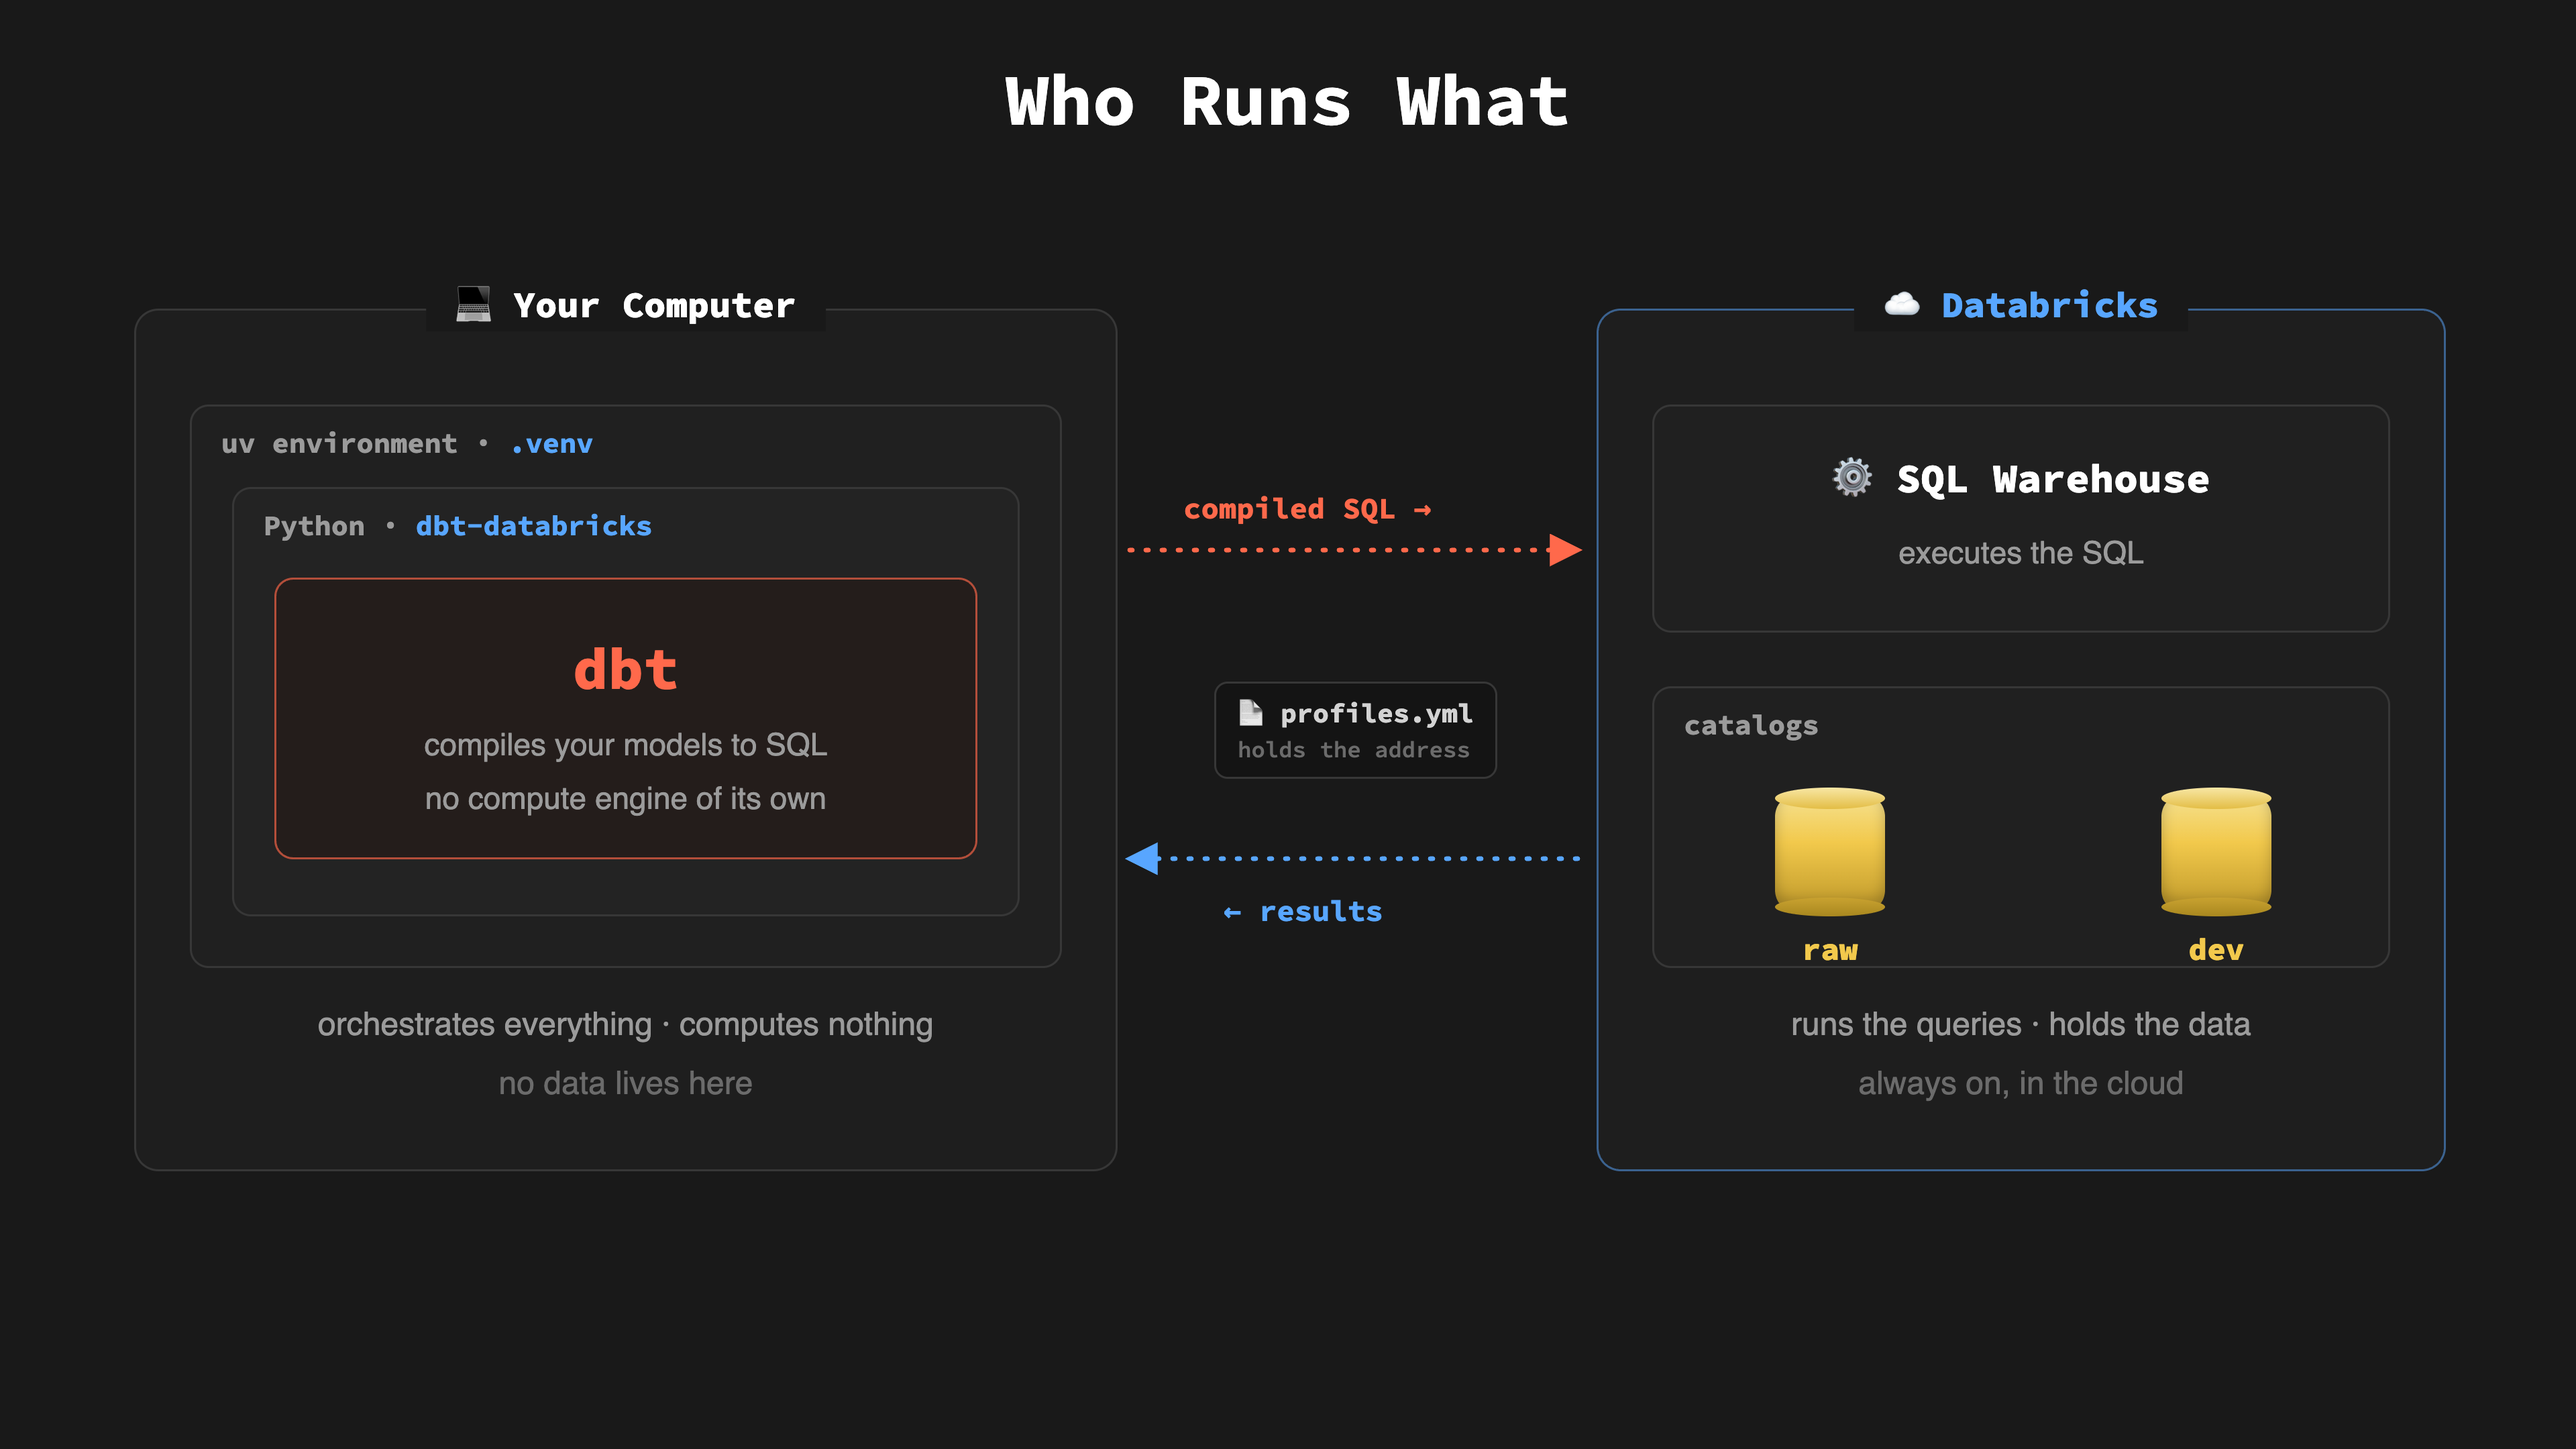
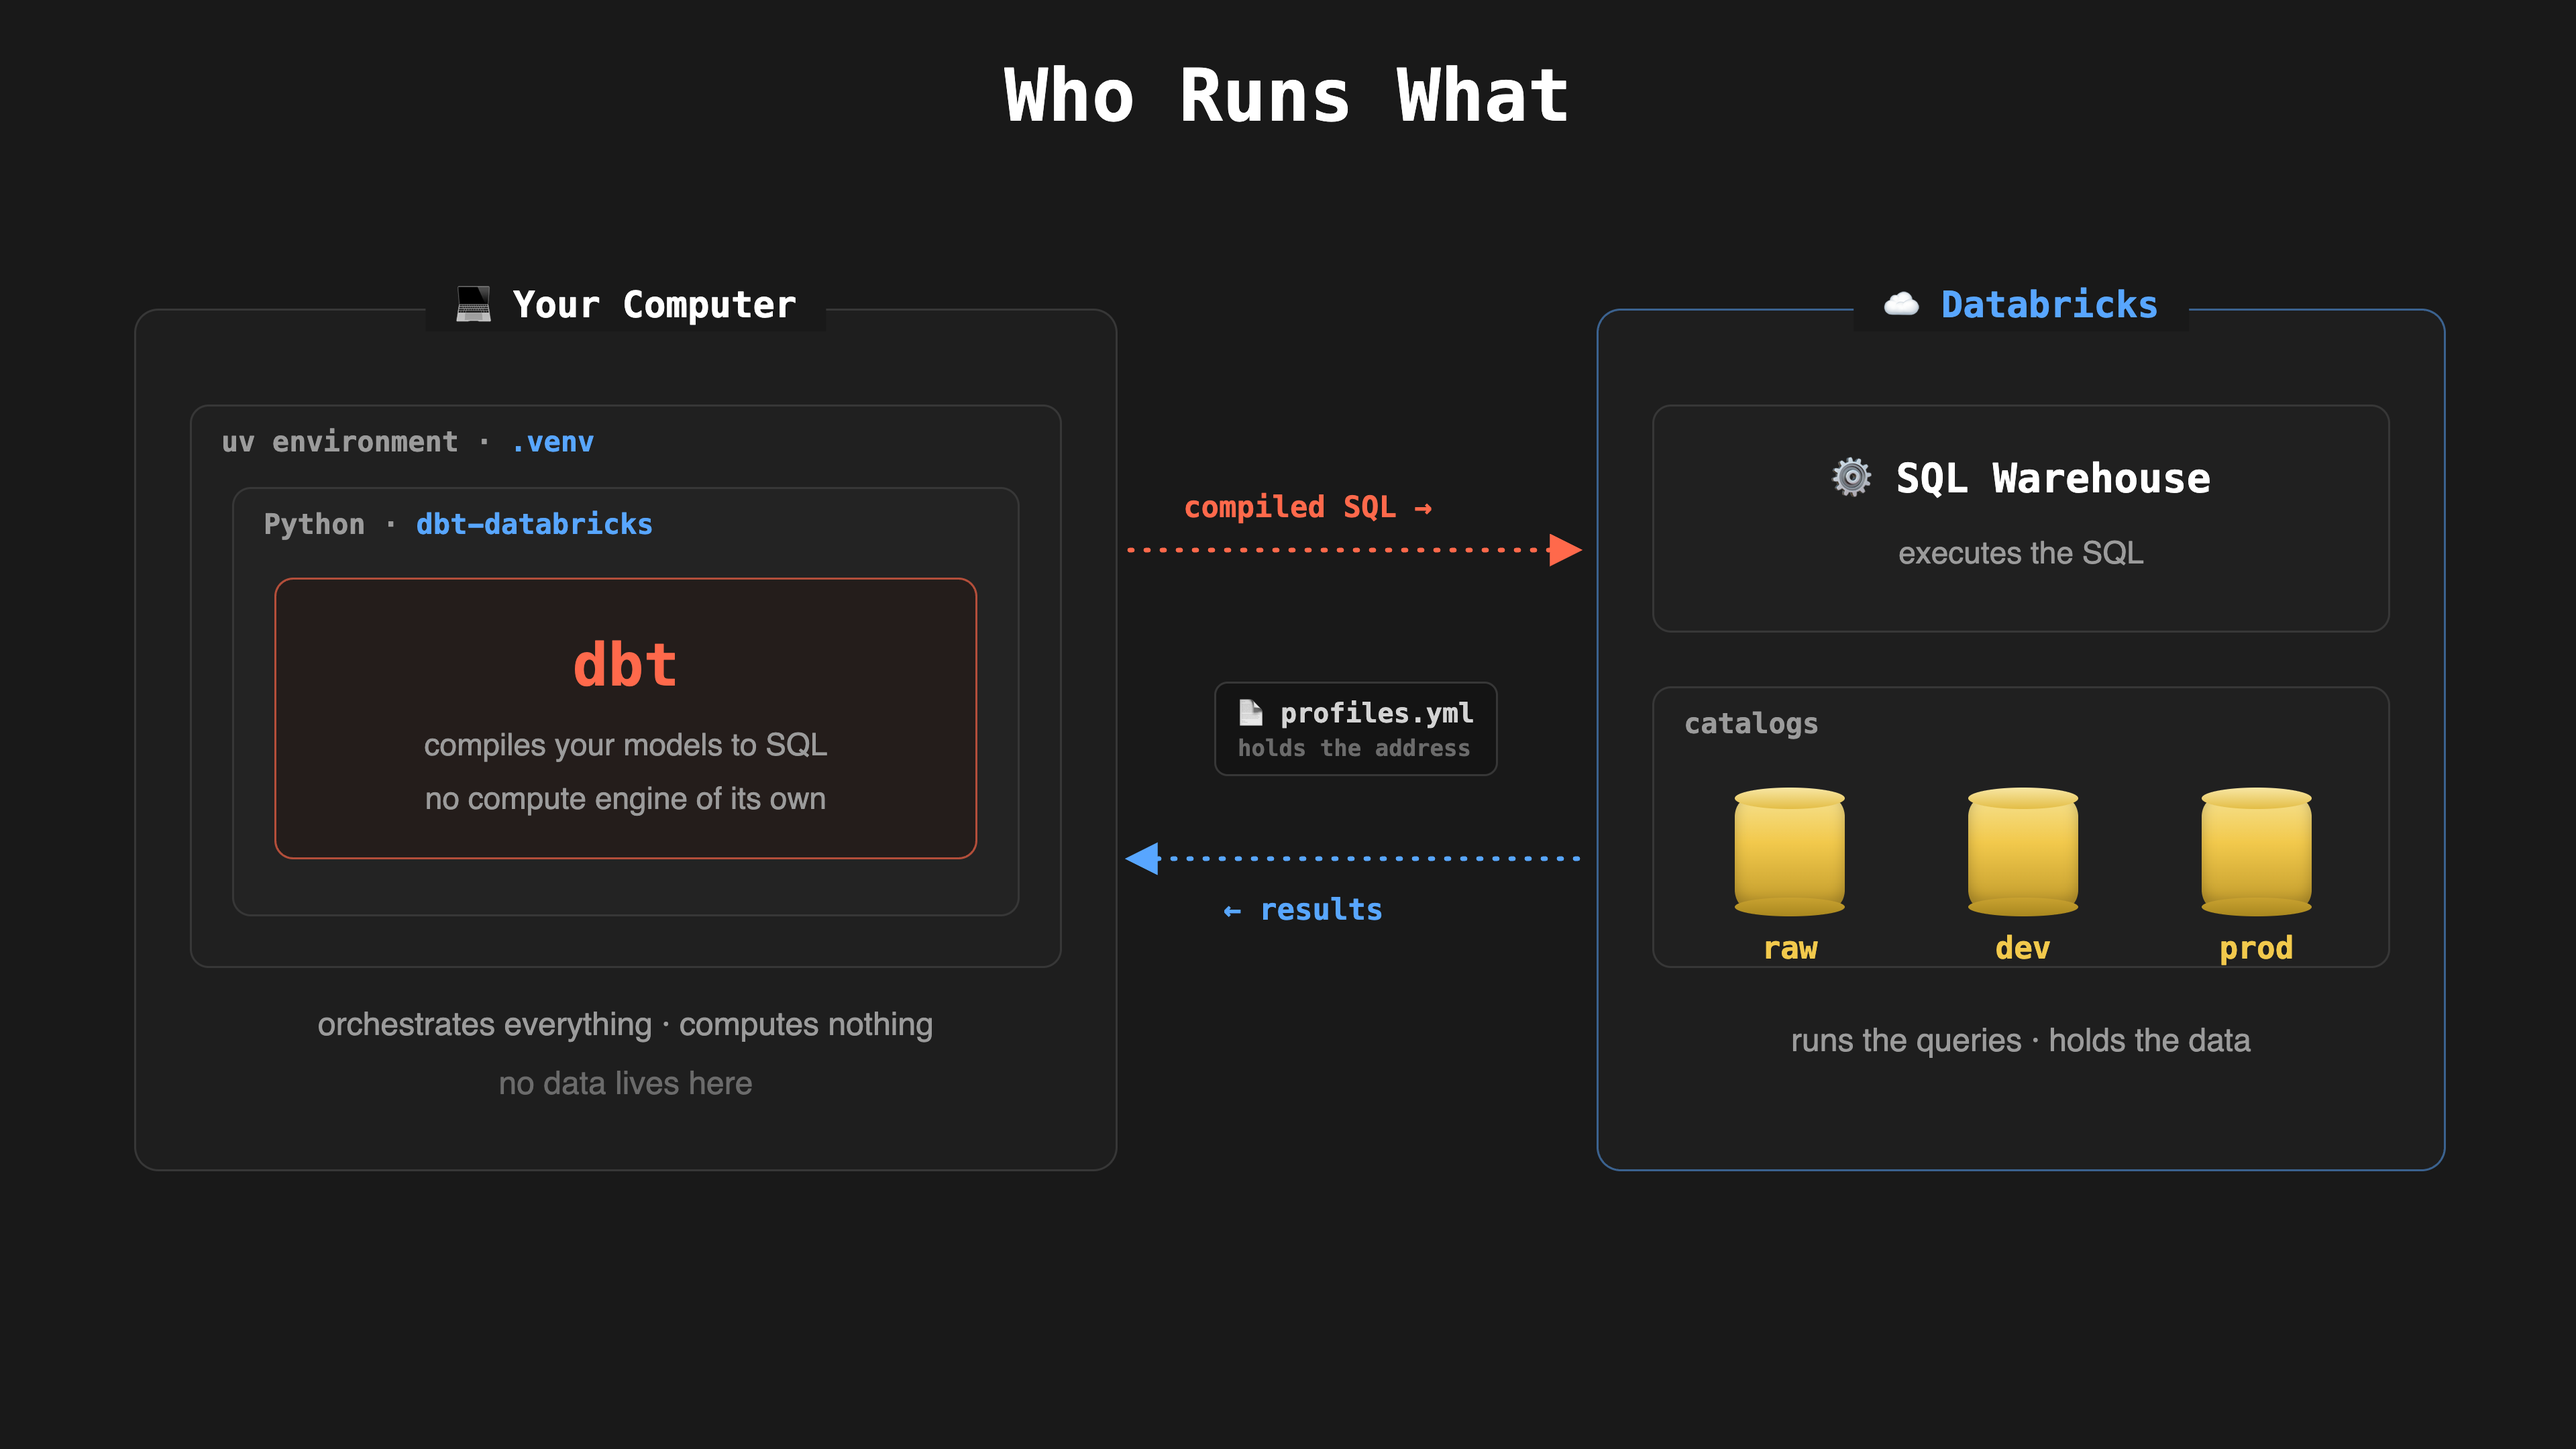
who_runs_what: add prod catalog cylinder, drop always-on line (Luke: Free Edition warehouses auto-pause)

diff --git a/resources/diagrams/3.02_who_runs_what.html b/resources/diagrams/3.02_who_runs_what.html
@@ -79,14 +79,15 @@
     <!-- catalogs -->
     <div class="nest" style="left:40px;top:280px;right:40px;height:210px">
       <div class="nlabel">catalogs</div>
-      <div class="cyl" style="left:90px;top:74px;width:82px;height:96px"><div class="body"></div><div class="top"></div><div class="bot"></div></div>
-      <div class="mono" style="position:absolute;left:60px;top:180px;width:142px;text-align:center;font-size:23px;font-weight:800;color:var(--duck)">raw</div>
-      <div class="cyl" style="left:378px;top:74px;width:82px;height:96px"><div class="body"></div><div class="top"></div><div class="bot"></div></div>
-      <div class="mono" style="position:absolute;left:348px;top:180px;width:142px;text-align:center;font-size:23px;font-weight:800;color:var(--duck)">dev</div>
+      <div class="cyl" style="left:60px;top:74px;width:82px;height:96px"><div class="body"></div><div class="top"></div><div class="bot"></div></div>
+      <div class="mono" style="position:absolute;left:30px;top:180px;width:142px;text-align:center;font-size:23px;font-weight:800;color:var(--duck)">raw</div>
+      <div class="cyl" style="left:234px;top:74px;width:82px;height:96px"><div class="body"></div><div class="top"></div><div class="bot"></div></div>
+      <div class="mono" style="position:absolute;left:204px;top:180px;width:142px;text-align:center;font-size:23px;font-weight:800;color:var(--duck)">dev</div>
+      <div class="cyl" style="left:408px;top:74px;width:82px;height:96px"><div class="body"></div><div class="top"></div><div class="bot"></div></div>
+      <div class="mono" style="position:absolute;left:378px;top:180px;width:142px;text-align:center;font-size:23px;font-weight:800;color:var(--duck)">prod</div>
     </div>
 
-    <div class="sub" style="left:40px;top:518px;right:40px;text-align:center;font-size:24px">runs the queries · holds the data</div>
-    <div class="sub" style="left:40px;top:562px;right:40px;text-align:center;font-size:24px;color:var(--faint)">always on, in the cloud</div>
+    <div class="sub" style="left:40px;top:530px;right:40px;text-align:center;font-size:24px">runs the queries · holds the data</div>
   </div>
 
   <!-- ============ the connection ============ -->
